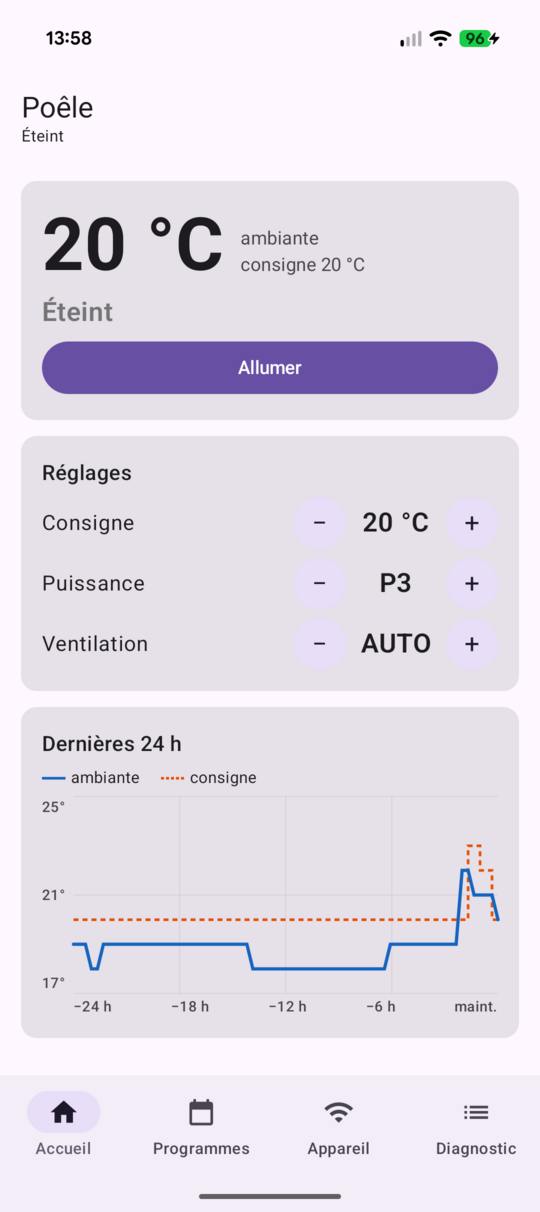
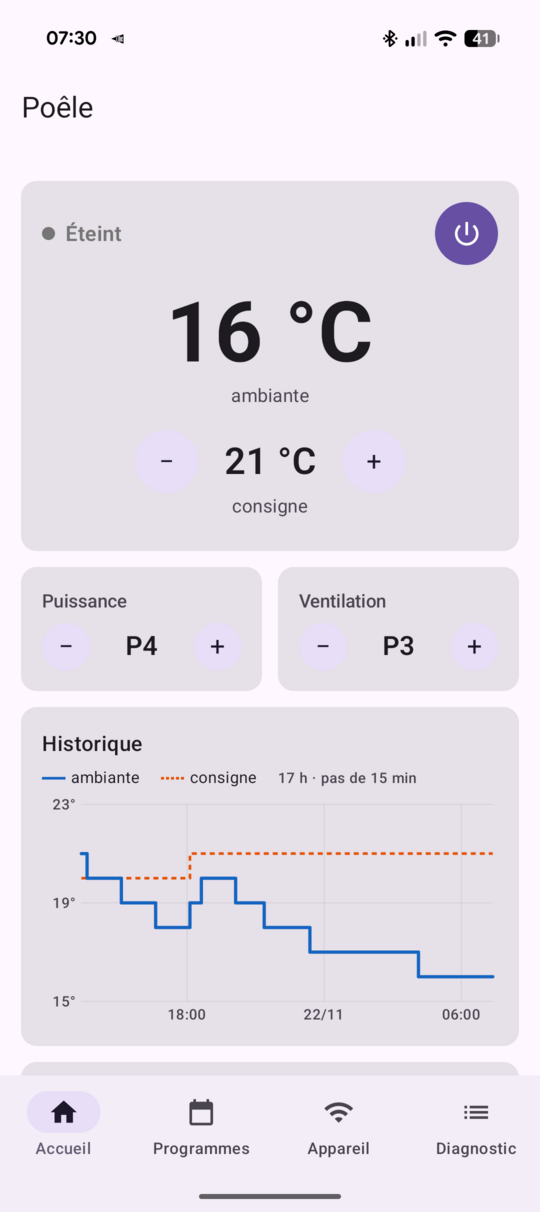
v1.3.0 : accueil façon thermostat, sans redites

diff --git a/app/src/main/java/dev/ppp0/poele/ui/App.kt b/app/src/main/java/dev/ppp0/poele/ui/App.kt
@@ -1,6 +1,16 @@
 package dev.ppp0.poele.ui
 
 import androidx.compose.foundation.layout.Arrangement
+import androidx.compose.foundation.background
+import androidx.compose.foundation.layout.Box
+import androidx.compose.foundation.layout.size
+import androidx.compose.foundation.layout.width
+import androidx.compose.foundation.shape.CircleShape
+import androidx.compose.material3.FilledIconButton
+import androidx.compose.material3.IconButtonDefaults
+import androidx.compose.material3.OutlinedIconButton
+import androidx.compose.ui.draw.clip
+import androidx.compose.ui.text.style.TextAlign
 import androidx.compose.foundation.layout.Column
 import androidx.compose.foundation.layout.PaddingValues
 import androidx.compose.foundation.layout.Row
@@ -97,7 +107,7 @@ fun App(vm: StoveViewModel) {
                 Column {
                     Text(s.name ?: "Poêle", maxLines = 1, overflow = TextOverflow.Ellipsis)
                     val sub = when (val c = conn) {
-                        is Conn.Connected -> (if (s.online) Registers.status(s.regs[Registers.STATUS]) else "Hors ligne") + " · ${c.found.ip}"
+                        is Conn.Connected -> (if (s.online) "" else "Hors ligne · ") + c.found.ip
                         is Conn.Searching -> "Recherche du module…"
                         is Conn.Failed -> "Module introuvable"
                     }
@@ -165,53 +175,77 @@ private fun HomeScreen(vm: StoveViewModel) {
     val pending by vm.pending.collectAsStateWithLifecycle()
     val upd by vm.updater.state.collectAsStateWithLifecycle()
     val thermal by vm.thermal.collectAsStateWithLifecycle()
-    // Courbe : à l'affichage de l'accueil, puis toutes les 5 min (un point toutes les 20 min côté poêle).
+    // Courbe : à l'affichage de l'accueil, puis toutes les 5 min (un point toutes les 15 min côté poêle).
     LaunchedEffect(Unit) { while (true) { vm.loadThermal(); kotlinx.coroutines.delay(300_000) } }
     val r = s.regs
     val st = r[Registers.STATUS]
     val alarm = s.alarm()
     var ask by remember { mutableStateOf<Boolean?>(null) }
 
-    @Composable
-    fun step(reg: Int, label: String, fmt: (Int?) -> String, note: String? = null) {
-        val p = pending[reg]
-        val color = when (p?.state) {
-            PendingState.Error -> StatusColors.error
-            null -> Color.Unspecified
-            else -> StatusColors.running
-        }
-        StepRow(label, fmt(p?.value ?: r[reg]), vm.canWrite(reg) && r[reg] != null, color, note,
-            onMinus = { vm.step(reg, -1) }, onPlus = { vm.step(reg, +1) })
+    fun valueColor(reg: Int) = when (pending[reg]?.state) {
+        PendingState.Error -> StatusColors.error
+        null -> Color.Unspecified
+        else -> StatusColors.running
     }
+    fun shown(reg: Int) = pending[reg]?.value ?: r[reg]
 
     LazyColumn(Modifier.fillMaxSize(), contentPadding = PAGE, verticalArrangement = GAP) {
         if (upd.available != null) item { UpdateBanner(upd, vm.updater::download) }
+        // Carte thermostat : état + marche/arrêt, ambiante en vedette, consigne réglable (affichée une seule fois).
         item {
             Section(null) {
-                // Température ambiante en vedette, consigne à côté pour comparer d'un coup d'œil.
-                Row(verticalAlignment = Alignment.Bottom) {
-                    Text(Registers.ambient(r[Registers.AMBIENT]), fontSize = 56.sp, fontWeight = FontWeight.Bold, lineHeight = 56.sp)
-                    Column(Modifier.padding(start = 12.dp, bottom = 8.dp)) {
-                        Text("ambiante", style = MaterialTheme.typography.bodyMedium, color = MaterialTheme.colorScheme.onSurfaceVariant)
-                        Text("consigne ${Registers.setpoint(pending[Registers.SETPOINT]?.value ?: r[Registers.SETPOINT])}",
-                            style = MaterialTheme.typography.bodyMedium, color = MaterialTheme.colorScheme.onSurfaceVariant)
+                Row(verticalAlignment = Alignment.CenterVertically) {
+                    val c = statusColor(st, alarm.isNotBlank())
+                    Box(Modifier.size(10.dp).clip(CircleShape).background(c))
+                    Text(Registers.status(st), Modifier.weight(1f).padding(start = 8.dp), color = c,
+                        style = MaterialTheme.typography.titleMedium, fontWeight = FontWeight.SemiBold)
+                    if (st != null) {
+                        val on = st == 0
+                        val colors = if (on) IconButtonDefaults.filledIconButtonColors()
+                            else IconButtonDefaults.outlinedIconButtonColors()
+                        if (on) FilledIconButton(onClick = { ask = true }, Modifier.size(48.dp), colors = colors) {
+                            Icon(painterResource(R.drawable.ic_power), contentDescription = "Allumer")
+                        } else OutlinedIconButton(onClick = { ask = false }, Modifier.size(48.dp)) {
+                            Icon(painterResource(R.drawable.ic_power), contentDescription = "Éteindre")
+                        }
                     }
                 }
-                Text(Registers.status(st), color = statusColor(st, alarm.isNotBlank()), fontSize = 20.sp, fontWeight = FontWeight.SemiBold)
                 if (alarm.isNotBlank()) Text("Alarme : $alarm", color = StatusColors.error)
                 if (!s.online) Text(s.lastError ?: "Connexion…", color = StatusColors.error, style = MaterialTheme.typography.bodySmall)
-                if (st != null) {
-                    if (st == 0) Button(onClick = { ask = true }, Modifier.fillMaxWidth()) { Text("Allumer") }
-                    else OutlinedButton(onClick = { ask = false }, Modifier.fillMaxWidth()) { Text("Éteindre") }
+                Column(Modifier.fillMaxWidth().padding(vertical = 8.dp), horizontalAlignment = Alignment.CenterHorizontally) {
+                    Text(Registers.ambient(r[Registers.AMBIENT]), fontSize = 64.sp, fontWeight = FontWeight.Bold, lineHeight = 64.sp)
+                    Text("ambiante", style = MaterialTheme.typography.bodyMedium, color = MaterialTheme.colorScheme.onSurfaceVariant)
+                    Row(Modifier.padding(top = 16.dp), verticalAlignment = Alignment.CenterVertically) {
+                        val ok = vm.canWrite(Registers.SETPOINT) && r[Registers.SETPOINT] != null
+                        StepButton("−", ok, 48.dp) { vm.step(Registers.SETPOINT, -1) }
+                        Text(Registers.setpoint(shown(Registers.SETPOINT)), Modifier.width(110.dp), color = valueColor(Registers.SETPOINT),
+                            fontSize = 28.sp, fontWeight = FontWeight.SemiBold, textAlign = TextAlign.Center)
+                        StepButton("+", ok, 48.dp) { vm.step(Registers.SETPOINT, +1) }
+                    }
+                    Text("consigne", style = MaterialTheme.typography.bodyMedium, color = MaterialTheme.colorScheme.onSurfaceVariant)
                 }
             }
         }
+        // Puissance et ventilation, en petit.
         item {
-            Section("Réglages") {
-                step(Registers.SETPOINT, "Consigne", Registers::setpoint)
-                step(Registers.POWER, "Puissance", Registers::power)
-                step(Registers.FAN, "Ventilation", Registers::fan,
-                    note = if (vm.canWrite(Registers.FAN) || r[Registers.DUCT_CONFIG] == null) null else "Lecture seule sur cette canalisation")
+            Row(horizontalArrangement = Arrangement.spacedBy(12.dp)) {
+                for ((reg, label, fmt) in listOf(
+                    Triple(Registers.POWER, "Puissance", Registers::power),
+                    Triple(Registers.FAN, "Ventilation", Registers::fan),
+                )) {
+                    Section(null, Modifier.weight(1f)) {
+                        Text(label, style = MaterialTheme.typography.labelLarge, color = MaterialTheme.colorScheme.onSurfaceVariant)
+                        Row(verticalAlignment = Alignment.CenterVertically) {
+                            val ok = vm.canWrite(reg) && r[reg] != null
+                            StepButton("−", ok, 36.dp) { vm.step(reg, -1) }
+                            Text(fmt(shown(reg)), Modifier.weight(1f), color = valueColor(reg), fontSize = 20.sp,
+                                fontWeight = FontWeight.SemiBold, textAlign = TextAlign.Center, maxLines = 1)
+                            StepButton("+", ok, 36.dp) { vm.step(reg, +1) }
+                        }
+                        if (reg == Registers.FAN && !vm.canWrite(reg) && r[Registers.DUCT_CONFIG] != null)
+                            Text("Lecture seule", style = MaterialTheme.typography.bodySmall, color = MaterialTheme.colorScheme.onSurfaceVariant)
+                    }
+                }
             }
         }
         item {

diff --git a/CHANGELOG.md b/CHANGELOG.md
@@ -1,5 +1,11 @@
 # Changelog
 
+## v1.3.0 — 2026-11-22
+
+- Accueil façon thermostat : état et bouton marche/arrêt en tête, ambiante en très gros, consigne réglable juste dessous ; puissance et ventilation en deux petites cartes.
+- Plus de redites : l'état n'est plus répété dans la barre de titre (IP seule, ou « Hors ligne »), la consigne n'apparaît plus qu'une fois.
+- Screenshot du README mis à jour.
+
 ## v1.2.3 — 2026-11-21
 
 - Arrêt programmé : plus rien n'est mémorisé sur le téléphone. Un AUTO-OFF dont l'arrêt est passé d'après sa ligne de programme (date du nom, heure d'arrêt, horloge du poêle) est désactivé, quelle que soit l'appli ou le téléphone qui l'a programmé. Corrige une désactivation retardée quand le programme avait été réécrit.
